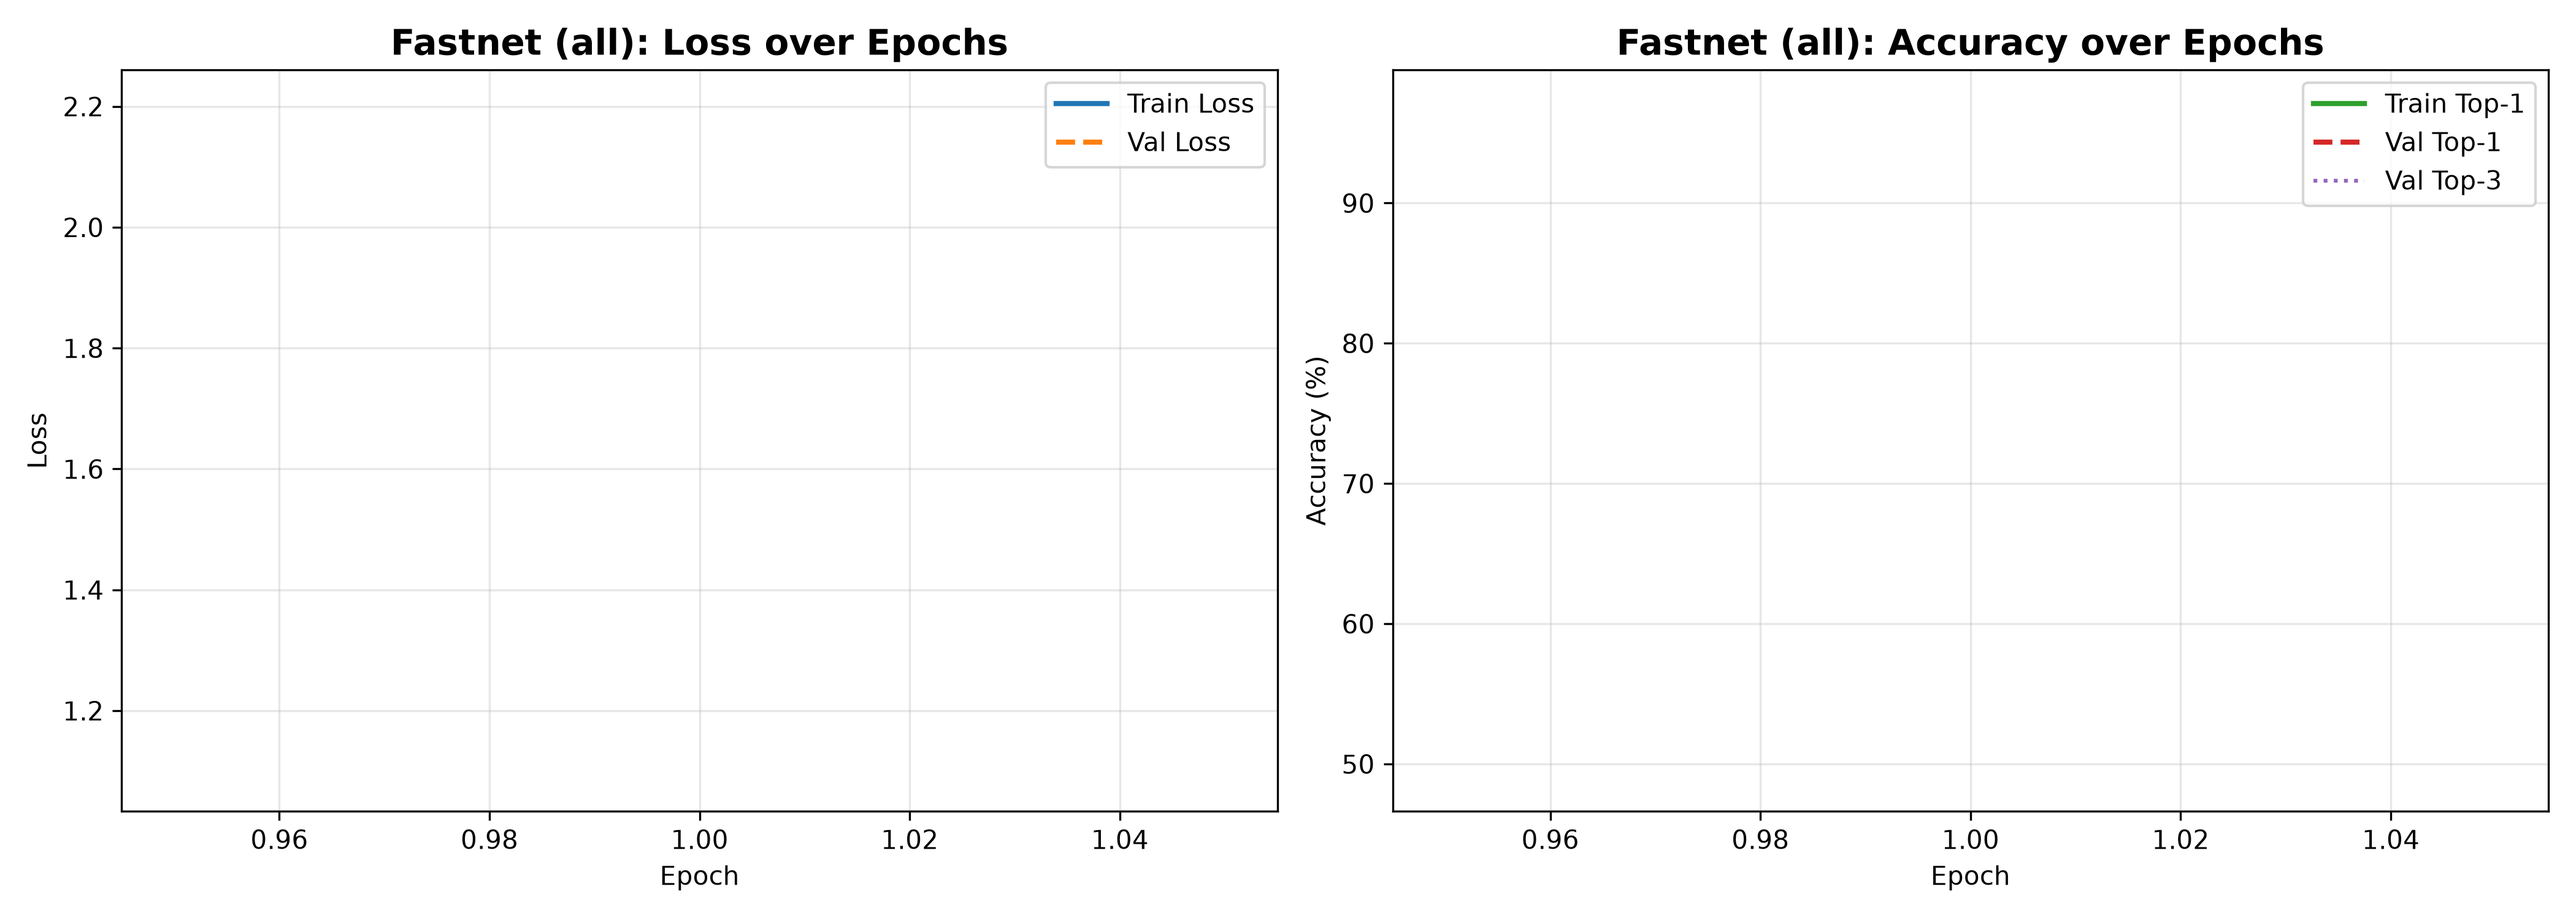
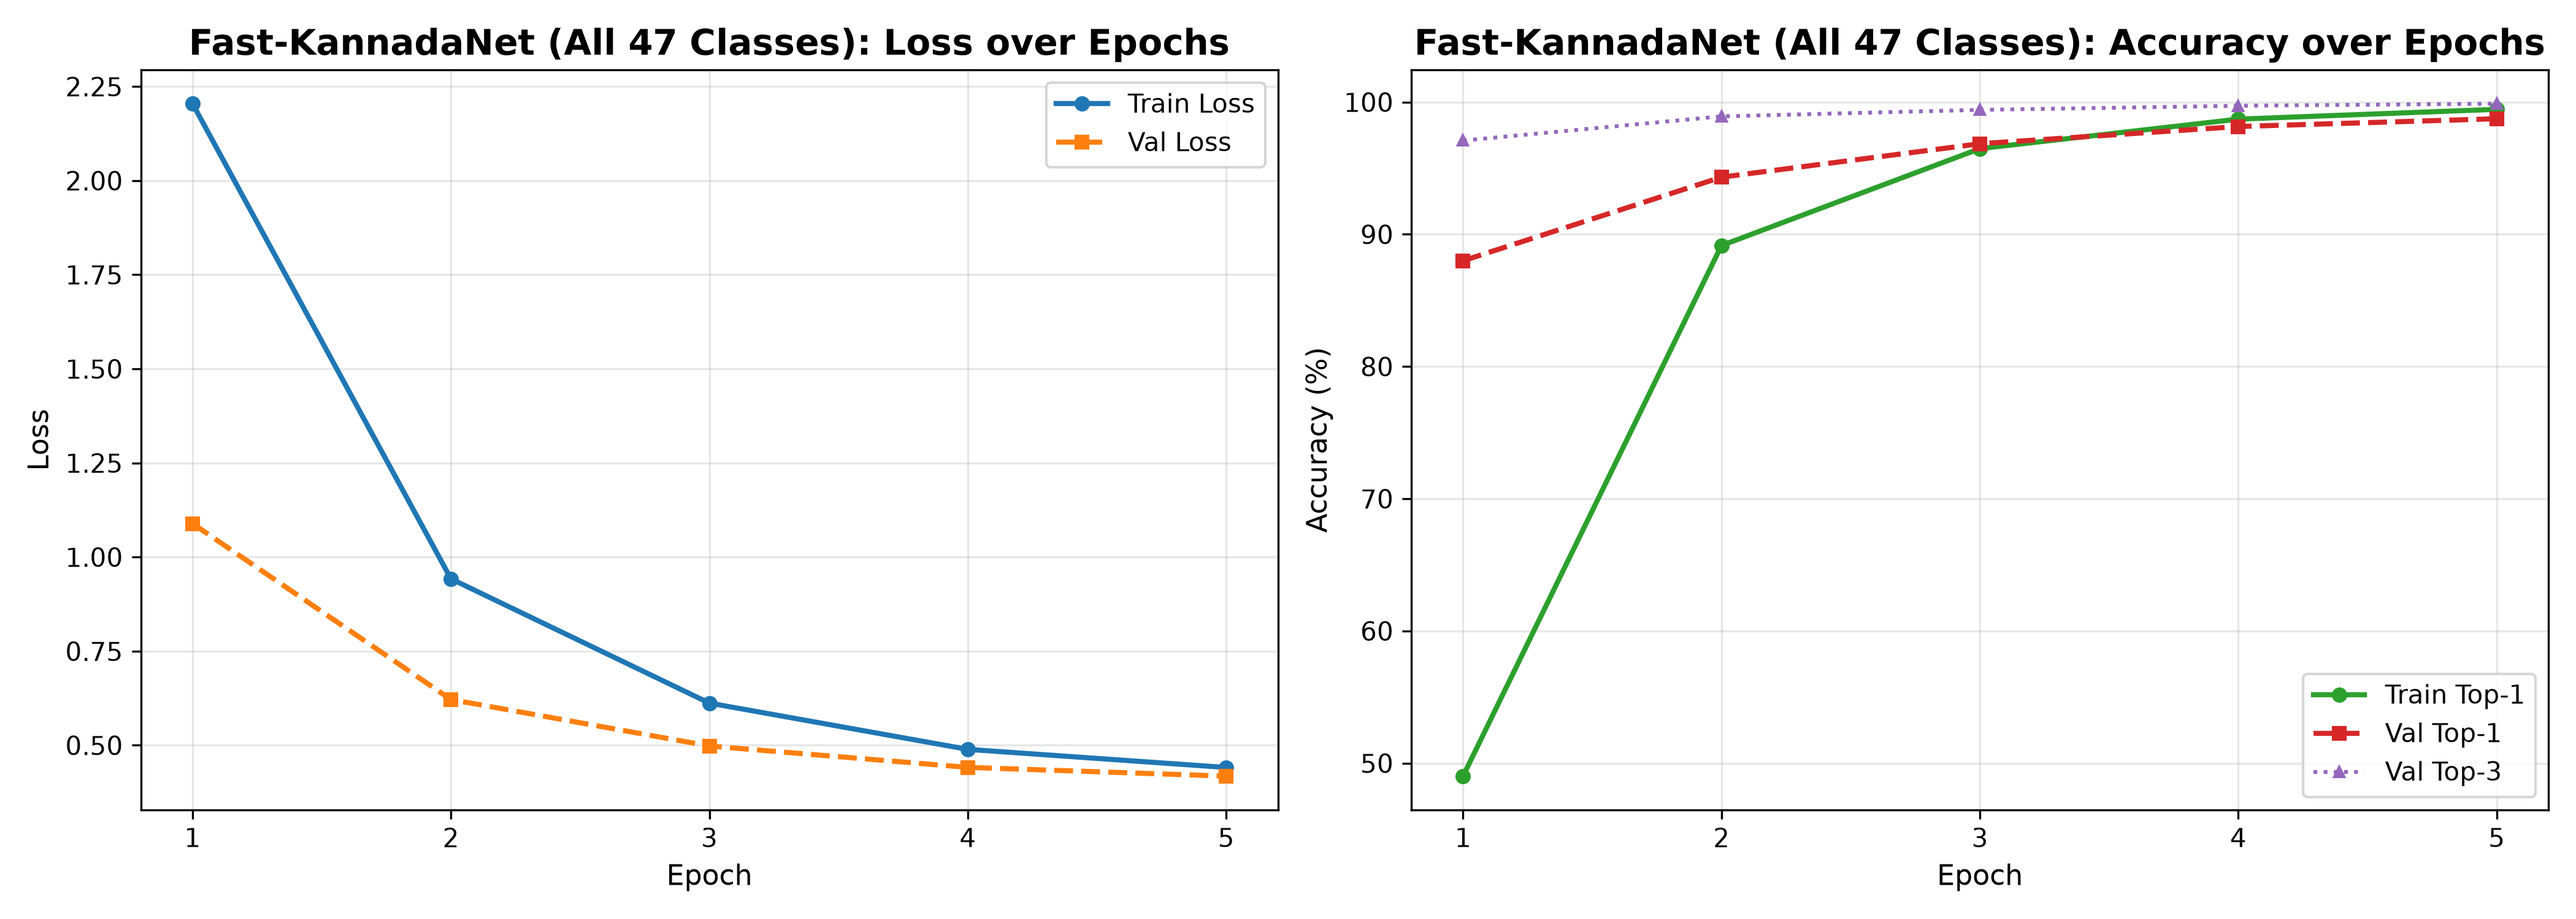
Update curves_fastnet_all.png with complete 5-epoch progression and markers

diff --git a/training/train.py b/training/train.py
@@ -215,23 +215,27 @@ def plot_training_results(
     fig, (ax1, ax2) = plt.subplots(1, 2, figsize=(14, 5))
     
     # Loss plot
-    ax1.plot(epochs, history["train_loss"], label="Train Loss", color="#1f77b4", lw=2)
-    ax1.plot(epochs, history["val_loss"], label="Val Loss", color="#ff7f0e", lw=2, linestyle="--")
+    ax1.plot(epochs, history["train_loss"], label="Train Loss", color="#1f77b4", lw=2, marker='o', markersize=5)
+    ax1.plot(epochs, history["val_loss"], label="Val Loss", color="#ff7f0e", lw=2, linestyle="--", marker='s', markersize=5)
     ax1.set_title(f"{model_name}: Loss over Epochs", fontsize=14, fontweight="bold")
-    ax1.set_xlabel("Epoch")
-    ax1.set_ylabel("Loss")
+    ax1.set_xlabel("Epoch", fontsize=11)
+    ax1.set_ylabel("Loss", fontsize=11)
     ax1.grid(True, alpha=0.3)
-    ax1.legend()
+    ax1.legend(loc="upper right")
+    if len(epochs) > 0:
+        ax1.set_xticks(list(epochs))
     
     # Accuracy plot
-    ax2.plot(epochs, history["train_acc"], label="Train Top-1", color="#2ca02c", lw=2)
-    ax2.plot(epochs, history["val_acc"], label="Val Top-1", color="#d62728", lw=2, linestyle="--")
-    ax2.plot(epochs, history["val_top3"], label="Val Top-3", color="#9467bd", lw=1.5, linestyle=":")
+    ax2.plot(epochs, history["train_acc"], label="Train Top-1", color="#2ca02c", lw=2, marker='o', markersize=5)
+    ax2.plot(epochs, history["val_acc"], label="Val Top-1", color="#d62728", lw=2, linestyle="--", marker='s', markersize=5)
+    ax2.plot(epochs, history["val_top3"], label="Val Top-3", color="#9467bd", lw=1.5, linestyle=":", marker='^', markersize=4)
     ax2.set_title(f"{model_name}: Accuracy over Epochs", fontsize=14, fontweight="bold")
-    ax2.set_xlabel("Epoch")
-    ax2.set_ylabel("Accuracy (%)")
+    ax2.set_xlabel("Epoch", fontsize=11)
+    ax2.set_ylabel("Accuracy (%)", fontsize=11)
     ax2.grid(True, alpha=0.3)
-    ax2.legend()
+    ax2.legend(loc="lower right")
+    if len(epochs) > 0:
+        ax2.set_xticks(list(epochs))
     
     plt.tight_layout()
     plt.savefig(output_path, dpi=300)
